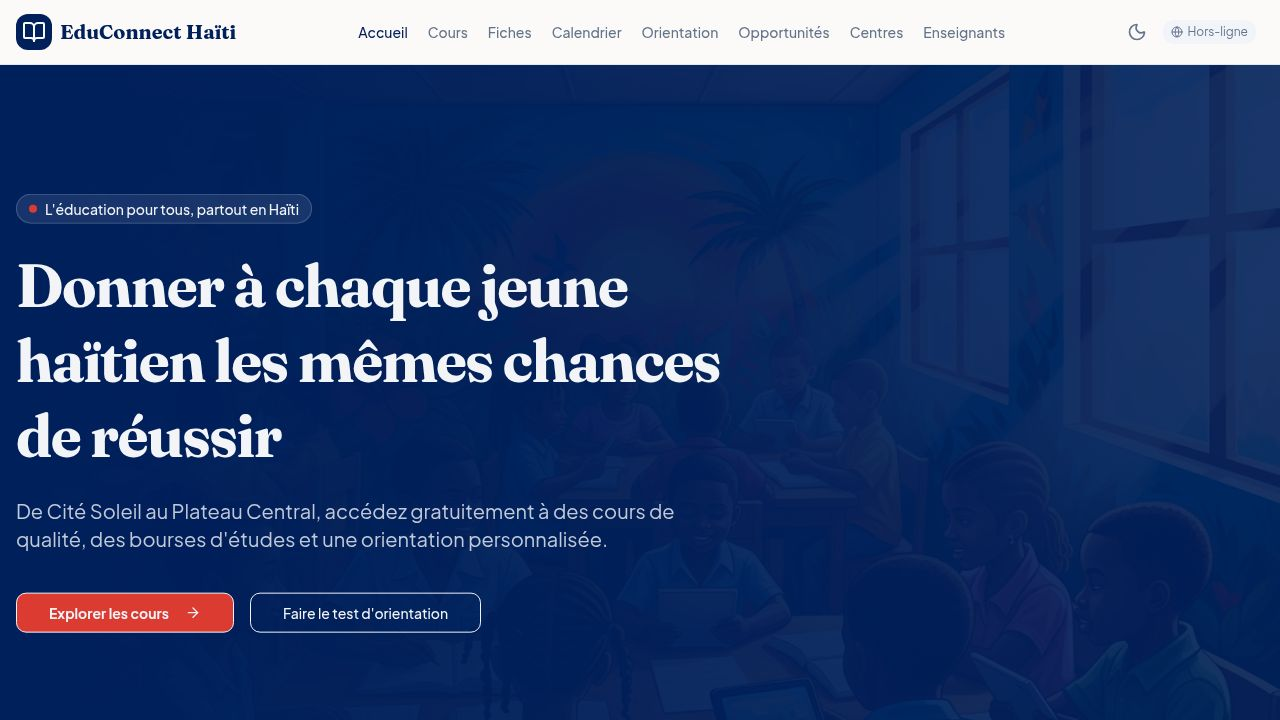
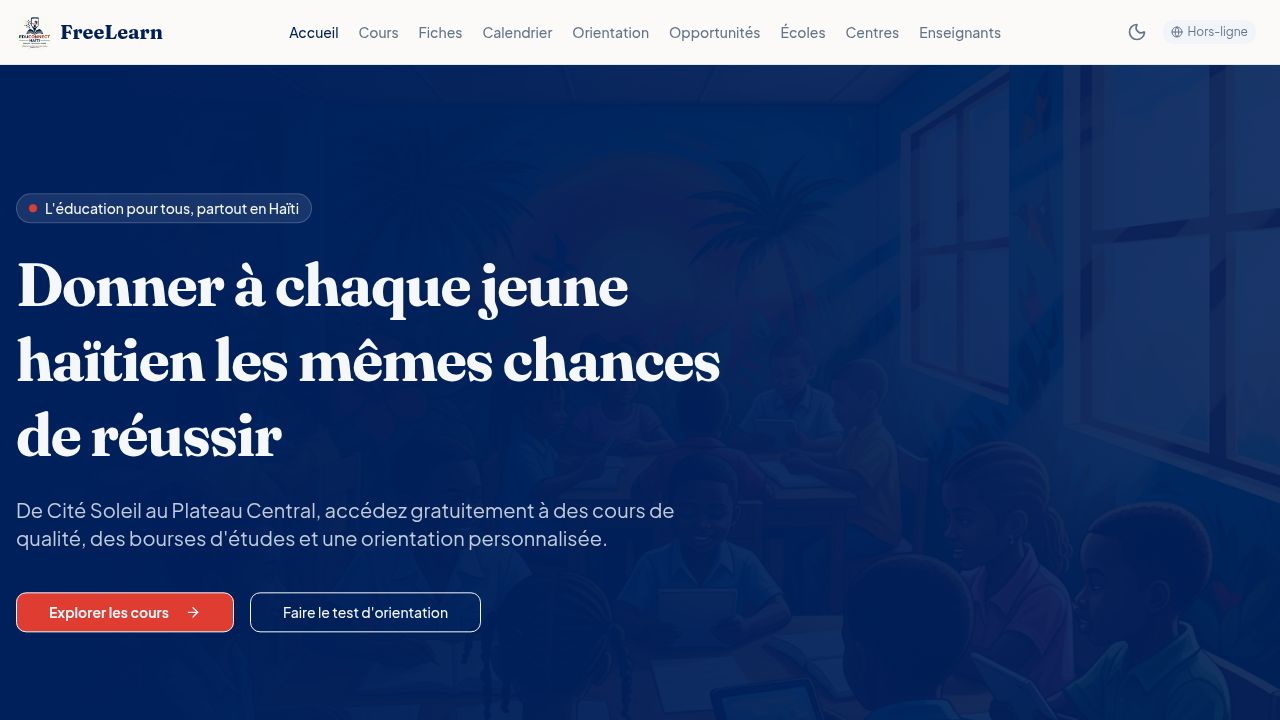
Update tab title and add schools link to navigation bar
Change the browser tab title from "EduConnect Haïti" to "FreeLearn" and add a navigation link for "Écoles" in `Layout.tsx`.

Replit-Commit-Author: Agent
Replit-Commit-Session-Id: 1d2f4e06-dd86-4e6c-90c1-cb98528d7d81
Replit-Commit-Checkpoint-Type: full_checkpoint
Replit-Commit-Event-Id: 5ca52996-1556-428c-bfc5-f325b9164088
Replit-Commit-Screenshot-Url: https://storage.googleapis.com/screenshot-production-us-central1/901e6223-7e97-49f2-a1ba-2a15bd98537c/1d2f4e06-dd86-4e6c-90c1-cb98528d7d81/KOtlZOg
Replit-Helium-Checkpoint-Created: true

diff --git a/artifacts/educonnect-haiti/src/components/layout/Layout.tsx b/artifacts/educonnect-haiti/src/components/layout/Layout.tsx
@@ -20,6 +20,7 @@ export function Layout({ children }: { children: React.ReactNode }) {
     { href: "/calendrier", label: "Calendrier" },
     { href: "/orientation", label: "Orientation" },
     { href: "/opportunites", label: "Opportunités" },
+    { href: "/ecoles", label: "Écoles" },
     { href: "/centres", label: "Centres" },
     { href: "/admin", label: "Enseignants" },
   ];

diff --git a/artifacts/educonnect-haiti/index.html b/artifacts/educonnect-haiti/index.html
@@ -3,7 +3,7 @@
   <head>
     <meta charset="UTF-8" />
     <meta name="viewport" content="width=device-width, initial-scale=1.0, maximum-scale=1" />
-    <title>EduConnect Haïti</title>
+    <title>FreeLearn</title>
     <link rel="icon" type="image/jpeg" href="/Logo.jpeg" />
     <link rel="manifest" href="/manifest.json" />
     <meta name="theme-color" content="#00205B" />
